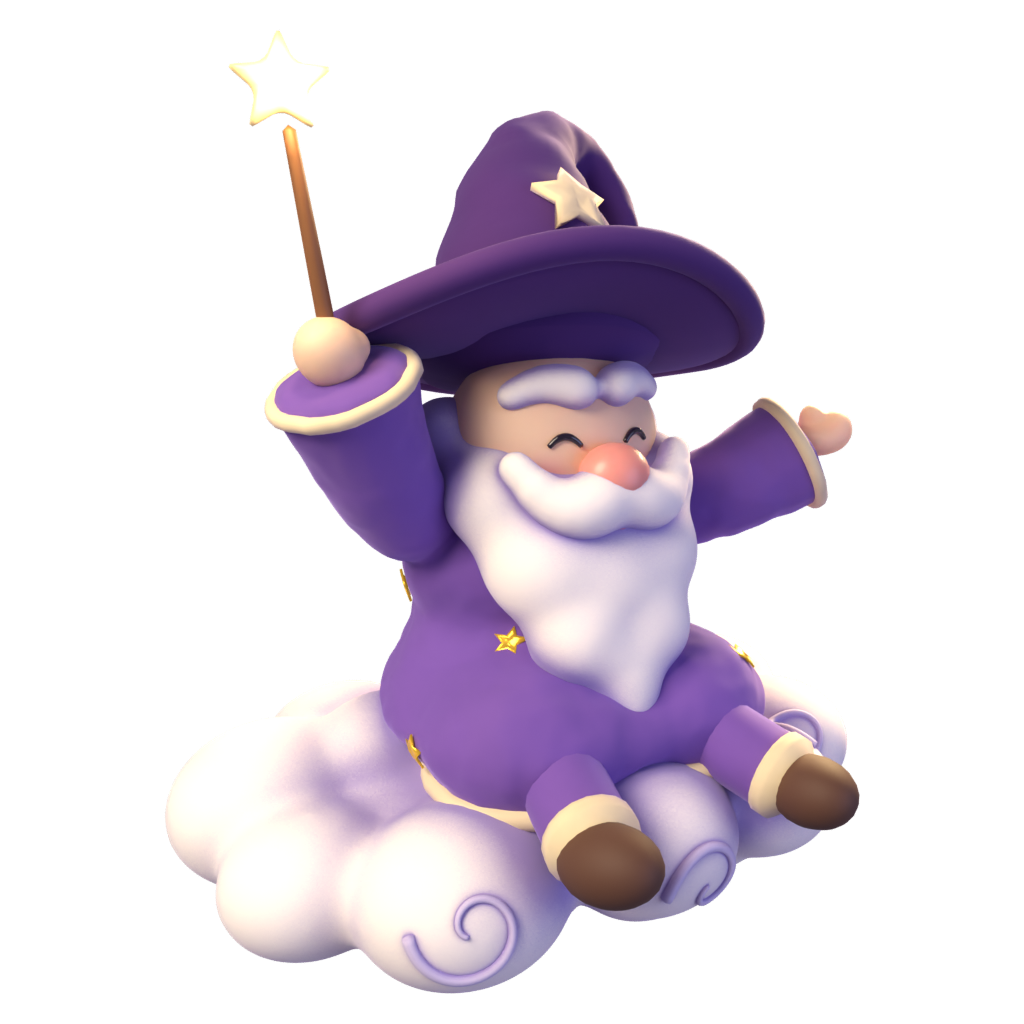
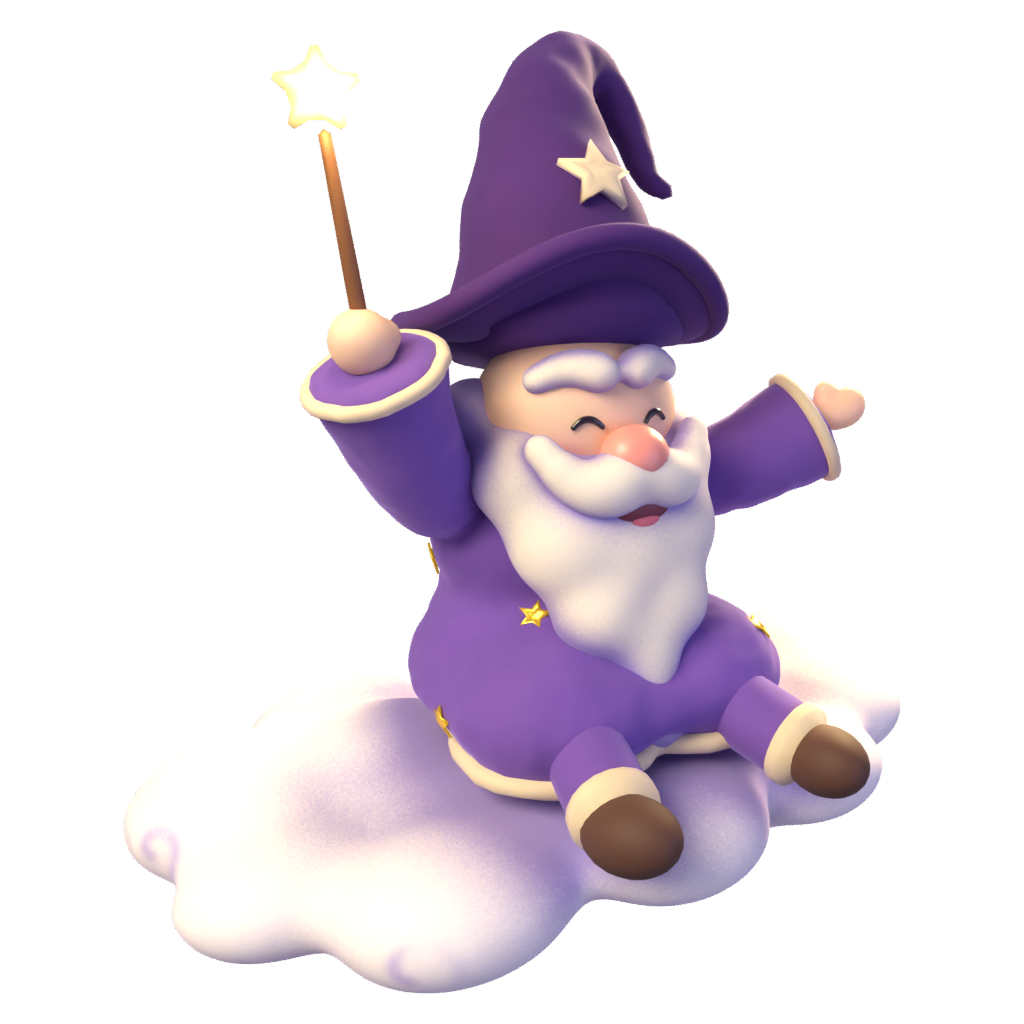
wip(art): wizard final pass in progress
Story: art bible v2 characters (design/art/art-bible.md §5)

Claude-Session: https://claude.ai/code/session_015gA98JmmjSJ5ZLv762bPy3

Changed region(s): [[0.2188, 0.0312, 0.875, 0.9688], [0.125, 0.8125, 0.25, 0.9688]]

diff --git a/assets/source/blender/characters/wizard.py b/assets/source/blender/characters/wizard.py
@@ -29,7 +29,7 @@ from mathutils import Matrix, Vector
 HEIGHT = 1.6           # final height of wizard + cloud, metres
 MB_SURFACE = 0.575     # an isolated metaball's surface radius / element radius (measured, 5.2.2)
 WIZ_SCALE = 1.22     # wizard size relative to the cloud
-TRI_BUDGET_WIZARD = 7000
+TRI_BUDGET_WIZARD = 7300   # includes the wand star
 TRI_BUDGET_CLOUD = 2500
 BAKE_SIZE = 1024
 
@@ -245,7 +245,7 @@ def puffy_star(name, ro, ri, depth, mat, location, facing):
     o = mesh_obj(name, bm, mat, smooth=False)
     bv = o.modifiers.new("bevel", "BEVEL")
     bv.width = depth * 0.45
-    bv.segments = 3
+    bv.segments = 1
     bv.limit_method = "NONE"
     o.matrix_world = Matrix.Translation(location) @ Vector(facing).normalized().to_track_quat("Z", "Y").to_matrix().to_4x4()
     return realize(o)
@@ -438,9 +438,8 @@ def materials():
     M = {
         "skin": skin_mat(),
         "nose": principled("nose", "nose", rough=0.4, Subsurface_Weight=0.15, Coat_Weight=0.15),
-        "beard": plush("beard", "beard", "lilac", 0.12),
+        "beard": plush("beard", "f3e9d6", "lilac", 0.12),
         "cloud": plush("cloud", "beard", "lilac", 0.35),
-        "cloud_line": plush("cloud_line", "cloud_line", "lilac", 0.2),
         "robe": felt("robe", "robe", rough=0.85, sheen=0.55, bump=0.03),
         "hat": felt("hat", "hat", rough=0.9, sheen=0.25, bump=0.05),
         "trim": principled("trim", "trim", rough=0.38, metal=0.55),
@@ -456,6 +455,21 @@ def materials():
         "star": principled("wand_star", "f3d99c", rough=0.35, metal=0.0,
                            Emission_Color=lin("f8d488"), Emission_Strength=0.18),
     }
+    # cloud swirl shading: mix the painted swirl attribute toward a soft lilac
+    nt, b = _bsdf(M["cloud"])
+    src = b.inputs["Base Color"].links[0].from_socket
+    sw = nt.nodes.new("ShaderNodeVertexColor")
+    sw.layer_name = "swirl"
+    fac = nt.nodes.new("ShaderNodeMath")
+    fac.operation = "MULTIPLY"
+    fac.inputs[1].default_value = 0.75
+    nt.links.new(sw.outputs["Color"], fac.inputs[0])
+    mx = nt.nodes.new("ShaderNodeMix")
+    mx.data_type = "RGBA"
+    nt.links.new(fac.outputs[0], mx.inputs[0])
+    nt.links.new(src, mx.inputs[6])
+    mx.inputs[7].default_value = lin("b9a6de")
+    nt.links.new(mx.outputs[2], b.inputs["Base Color"])
     return M
 
 
@@ -506,28 +520,41 @@ def build(pose_name, M):
     for co, semi in puffs:
         g = bmesh.ops.create_uvsphere(bm, u_segments=32, v_segments=16, radius=1.0)
         bmesh.ops.transform(bm, matrix=Matrix.Translation(co) @ Matrix.Diagonal((*semi, 1.0)), verts=g["verts"])
-    bm.transform(Matrix.Diagonal((1.06, 0.96, 0.86, 1.0)))
+    bm.transform(Matrix.Diagonal((1.22, 1.0, 0.86, 1.0)))
     cloud = mesh_obj("C_cloud", bm, M["cloud"])
-    add_mods(cloud, remesh=0.012, smooth=(0.8, 30))
+    add_mods(cloud, remesh=0.014, smooth=(0.8, 30))
     cloud = realize(cloud)
     C.append(cloud)
-    # spiral swirls on the front puffs
-    for k, (x, z, r0, turn) in enumerate([(-0.45, 0.24, 0.11, 1), (0.02, 0.2, 0.10, -1), (0.55, 0.26, 0.10, -1)]):
-        loc, nrm = cast(cloud, (x, -2, z), (0, 1, 0))
+    # spiral swirls painted into a "swirl" colour attribute (soft shading, not geometry)
+    me = cloud.data
+    nv = len(me.vertices)
+    V = np.empty(nv * 3, dtype=np.float32)
+    me.vertices.foreach_get("co", V)
+    V = V.reshape(-1, 3)
+    weight = np.zeros(nv, dtype=np.float32)
+    for x, z, r0, turn in [(-0.62, 0.15, 0.13, 1), (0.0, 0.11, 0.12, -1), (0.64, 0.16, 0.12, -1),
+                           (-0.95, 0.2, 0.09, 1), (0.98, 0.2, 0.09, -1)]:
+        loc, nrm = cast(cloud, (x, -3, z), (0, 1, 0))
         if loc is None:
             continue
         u = nrm.cross(Vector((0, 0, 1))).normalized()
         v = nrm.cross(u).normalized()
-        pts, rad = [], []
-        for i in range(34):
-            t = i / 33
-            ang = turn * (t * 2.2 * math.pi)
+        pts = []
+        for i in range(140):
+            t = i / 139
+            ang = turn * (t * 2.3 * math.pi)
             rr = r0 * (1 - t * 0.85)
-            q = loc + rr * (math.cos(ang) * u + math.sin(ang) * v)
-            h, _ = cast(cloud, q + nrm * 0.15, -nrm)
-            pts.append((h if h is not None else q) + nrm * 0.002)
-            rad.append(0.012 * (1 - 0.6 * t))
-        C.append(sweep(f"C_swirl{k}", pts, rad, ring=8, n=60, mat=M["cloud_line"]))
+            pts.append(loc + rr * (math.cos(ang) * u + math.sin(ang) * v))
+        P = np.array([tuple(p) for p in pts], dtype=np.float32)
+        near = np.linalg.norm(V - np.array(loc), axis=1) < r0 * 1.6
+        if not near.any():
+            continue
+        d = np.min(np.linalg.norm(V[near][:, None, :] - P[None, :, :], axis=2), axis=1)
+        weight[near] = np.maximum(weight[near], np.exp(-(d / 0.016) ** 2))
+    attr = me.color_attributes.new("swirl", "FLOAT_COLOR", "POINT")
+    cols = np.repeat(weight[:, None], 4, axis=1)
+    cols[:, 3] = 1.0
+    attr.data.foreach_set("color", cols.ravel())
 
     # ---- head (skin metaball) + blush vertex colours
     head = realize(metaball("mb_head", [E((0, -0.02, 0.99), (0.20, 0.17, 0.185))], res=0.01), "W_head", M["skin"])
@@ -607,9 +634,9 @@ def build(pose_name, M):
 
     # mouth (cheer): open smile under the moustache
     if pose["mouth"] == "smile":
-        my = front_y(beard, 0, 0.885) or -0.22
-        W.append(ellipsoid("W_mouth", (0, my + 0.012, 0.888), (0.042, 0.02, 0.026), M["mouth"]))
-        W.append(ellipsoid("W_tongue", (0, my + 0.006, 0.875), (0.024, 0.012, 0.012), M["tongue"], seg=16))
+        my = front_y(beard, 0, 0.872) or -0.22
+        W.append(ellipsoid("W_mouth", (0, my + 0.012, 0.874), (0.062, 0.024, 0.042), M["mouth"]))
+        W.append(ellipsoid("W_tongue", (0, my + 0.002, 0.852), (0.036, 0.016, 0.017), M["tongue"], seg=16))
     elif pose["mouth"] == "o":
         my = front_y(beard, 0, 0.875) or -0.22
         W.append(ellipsoid("W_mouth", (0, my + 0.008, 0.875), (0.022, 0.014, 0.026), M["mouth"]))
@@ -702,26 +729,27 @@ def build(pose_name, M):
     spine = [(0, 0.02, 1.06), (0, 0.03, 1.22), (0.01, 0.06, 1.36), (0.05, 0.10, 1.47),
              (0.13, 0.14, 1.54), (0.22, 0.16, 1.53), (0.28, 0.15, 1.45), (0.29, 0.12, 1.37), (0.33, 0.10, 1.34)]
     radii = [0.22, 0.18, 0.13, 0.092, 0.066, 0.05, 0.038, 0.026, 0.016]
+    spine = [(x, y, 1.06 + (z - 1.06) * 1.3) for x, y, z in spine]   # taller cone vs the brim
     cone = sweep("W_hat", spine, radii, ring=36, n=70, mat=M["hat"], wobble=0.03)
     add_mods(cone, smooth=None, displace=(0.06, 0.01))
     hat_parts.append(realize(cone))
 
     def brim_z(a, r):
-        return (0.016 * math.sin(3 * a + 0.4) - 0.03 * math.cos(a) ** 2 + 0.012 * max(0.0, -math.sin(a))) * r + 0.022 * r ** 6
+        return (0.016 * math.sin(3 * a + 0.4) - 0.03 * math.cos(a) ** 2 + 0.045 * max(0.0, -math.sin(a)) ** 2) * r + 0.02 * r ** 6
 
     bm = bmesh.new()
     bmesh.ops.create_uvsphere(bm, u_segments=64, v_segments=16, radius=1.0)
     for v in bm.verts:
         a = math.atan2(v.co.y, v.co.x)
         r = math.hypot(v.co.x, v.co.y)
-        v.co = Vector((v.co.x * 0.38, v.co.y * 0.36 + 0.02, v.co.z * 0.022 + 1.095 + brim_z(a, r)))
+        v.co = Vector((v.co.x * 0.29, v.co.y * 0.275 + 0.02, v.co.z * 0.022 + 1.095 + brim_z(a, r)))
     hat_parts.append(mesh_obj("W_brim", bm, M["hat"]))
     lip = []
     for i in range(72):
         a = 2 * math.pi * i / 72
-        lip.append((0.385 * math.cos(a), 0.365 * math.sin(a) + 0.02, 1.095 + brim_z(a, 1.0) + 0.008))
-    hat_parts.append(sweep("W_brimlip", lip, [0.026] * 72, ring=14, mat=M["hat"], closed=True))
-    hs = decal_star("W_hatstar", hat_parts[0], (0, -2, 1.31), (0, 1, 0), 0.08, 0.016, M["band"], offset=0.004)
+        lip.append((0.295 * math.cos(a), 0.28 * math.sin(a) + 0.02, 1.095 + brim_z(a, 1.0) + 0.008))
+    hat_parts.append(sweep("W_brimlip", lip, [0.022] * 72, ring=14, mat=M["hat"], closed=True))
+    hs = decal_star("W_hatstar", hat_parts[0], (0, -2, 1.33), (0, 1, 0), 0.075, 0.016, M["band"], offset=0.004)
     if hs:
         hat_parts.append(hs)
     for k, (x, z) in enumerate([]):
